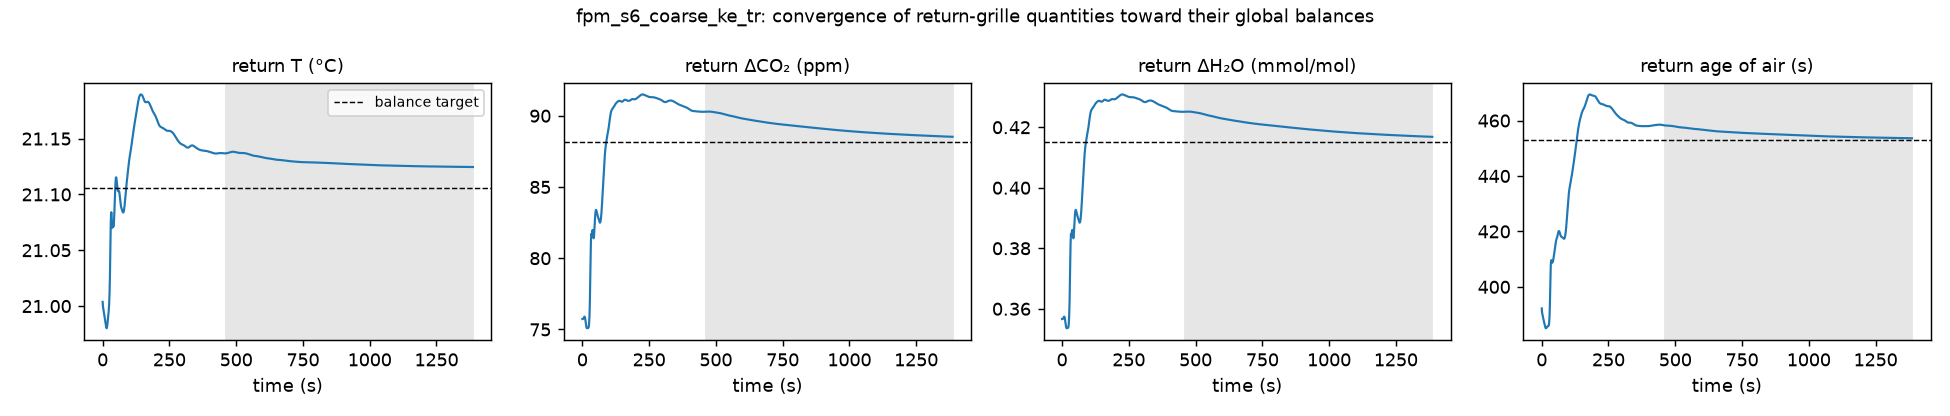
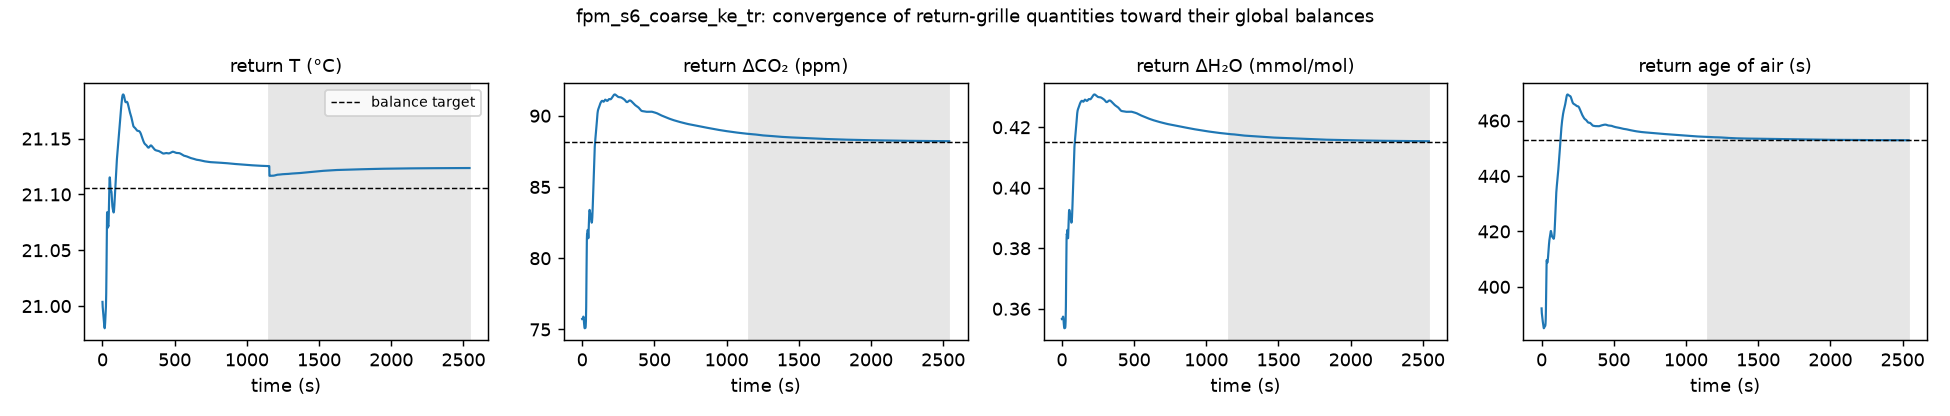
S6 k-eps passes with a fresh averaging window and now drives the siting results; S5b failed (still settling) and is chained for extension; extend CLI; sensors --passing-ke

diff --git a/habitat/cfd/extend.py b/habitat/cfd/extend.py
@@ -72,3 +72,33 @@ def extend(case: Path, new_end: float, reset_average: bool = False) -> Path:
     (case / "case_meta.json").write_text(json.dumps(meta, indent=1, default=str))
     (case / "STATUS").write_text("DONE\n")
     return case
+
+
+def main(argv=None) -> int:
+    """CLI: optionally wait for a queue's STATUS to leave RUNNING, then extend a case by N flush times and re-gate.
+
+        python -m habitat.cfd.extend runs/fpm_s5b_coarse_ke_tr --flush 3 --reset --wait results/cfd/after_campaign.STATUS
+    """
+    import argparse
+    import time
+    from . import post
+    from .campaign import alive
+    ap = argparse.ArgumentParser()
+    ap.add_argument("case")
+    ap.add_argument("--flush", type=float, default=3.0, help="flush times to add")
+    ap.add_argument("--reset", action="store_true", help="fresh averaging window from the restart")
+    ap.add_argument("--wait", help="STATUS file of a queue to wait for first")
+    a = ap.parse_args(argv)
+    if a.wait:
+        while alive(Path(a.wait)):
+            time.sleep(120)
+    case = Path(a.case)
+    tf = json.loads((case / "case_meta.json").read_text())["transient"]["t_flush_s"]
+    extend(case, times(case)[-1] + a.flush * tf, reset_average=a.reset)
+    g = post.run(case)
+    print(json.dumps({"case": case.name, "pass": g["pass"], "gates": g["gates"]}, default=str))
+    return 0 if g["pass"] else 1
+
+
+if __name__ == "__main__":
+    raise SystemExit(main())

diff --git a/habitat/cfd/sensors.py b/habitat/cfd/sensors.py
@@ -205,7 +205,22 @@ def viewer_overlay(res: dict, n: int = 5) -> Path:
     return glb
 
 
+def passing_ke_cases() -> list[Path]:
+    """Every k-epsilon transient case that passed its gates (and its siting gates, for S6)."""
+    from .. import RUNS
+    cases = []
+    for c in sorted(RUNS.glob("fpm_*_ke_tr")):
+        g, sit = OUT / f"{c.name}_gates.json", OUT / f"{c.name}_siting.json"
+        ok = g.exists() and json.loads(g.read_text()).get("pass")
+        if sit.exists():
+            ok = ok and json.loads(sit.read_text()).get("pass")
+        if ok:
+            cases.append(c)
+    return cases
+
+
 if __name__ == "__main__":
-    r = score([Path(a) for a in sys.argv[1:]])
+    args = sys.argv[1:]
+    r = score(passing_ke_cases() if args == ["--passing-ke"] else [Path(a) for a in args])
     write(r)
     print((OUT / "sensor_placement.md").read_text())

diff --git a/habitat/manuscript_numbers.py b/habitat/manuscript_numbers.py
@@ -56,7 +56,9 @@ def main() -> None:
             v = [e["rms"] for k, r in a20["runs"].items() if k.startswith(model) for e in r["errors"].values()]
             return f"{min(v):.2f}", f"{max(v):.2f}"
         (m["SstLo"], m["SstHi"]), (m["KeLo"], m["KeHi"]) = rng("kOmegaSST"), rng("kEpsilon")
-    s6 = _j("results/cfd/fpm_s6_coarse_tr_siting.json")
+    s6 = _j("results/cfd/fpm_s6_coarse_ke_tr_siting.json")       # k-epsilon run once it passes, else kOmegaSST
+    if not (s6 and s6.get("pass")):
+        s6 = _j("results/cfd/fpm_s6_coarse_tr_siting.json")
     if s6:
         m["OffgasMixed"] = f"{max(s6['return_ppm'].values()):.1f}"
         m["OffgasCanopyNFT"] = f"{s6['rows']['zone:nft_canopy']['nft_wall']:.1f}"

diff --git a/habitat/brief.py b/habitat/brief.py
@@ -21,7 +21,9 @@ def _j(rel: str):
 def main() -> None:
     L = Ledger()
     m0 = _j("results/cfd/fpm_m0_coarse_tr_gates.json")
-    s6 = _j("results/cfd/fpm_s6_coarse_tr_siting.json")
+    s6 = _j("results/cfd/fpm_s6_coarse_ke_tr_siting.json")       # k-epsilon run once it passes, else kOmegaSST
+    if not (s6 and s6.get("pass")):
+        s6 = _j("results/cfd/fpm_s6_coarse_tr_siting.json")
     lb = _j("results/light_budget.json")
     s3 = _j("results/s3_hvac_off.json")
     sp = _j("results/cfd/sensor_placement.json")

diff --git a/manuscript/numbers.tex b/manuscript/numbers.tex
@@ -1,6 +1,6 @@
 % generated by habitat/manuscript_numbers.py from the result files; do not edit by hand
 \newcommand{\LedgerDigest}{53413134410685ff}
-\newcommand{\GitHead}{3eeade6}
+\newcommand{\GitHead}{cbdb563}
 \newcommand{\NRecords}{174}
 \newcommand{\NAssumed}{80}
 \newcommand{\NSpecified}{51}
